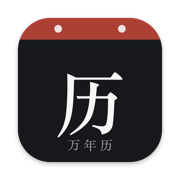
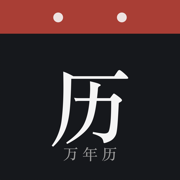
手机图标铺满方块，去掉透明边（避免主屏幕出现白边）

diff --git a/tools/icon-full.swift b/tools/icon-full.swift
@@ -1,0 +1,21 @@
+// 手机 / 网页用图标：铺满整个方块、不透明、无圆角（iOS 和安卓会自己裁圆角）
+// 用法：swift tools/icon-full.swift 输出.png
+import Cocoa
+let S: CGFloat = 1024
+let img = NSImage(size: NSSize(width: S, height: S))
+img.lockFocus()
+NSColor(srgbRed: 0.086, green: 0.094, blue: 0.11, alpha: 1).setFill(); NSRect(x: 0, y: 0, width: S, height: S).fill()
+// 顶部日历页眉 + 两个装订孔（与 Mac App 图标同一设计，按满版比例放大）
+NSColor(srgbRed: 0.72, green: 0.20, blue: 0.18, alpha: 1).setFill(); NSRect(x: 0, y: S - 190, width: S, height: 190).fill()
+NSColor(white: 0.96, alpha: 0.9).setFill()
+for x in [330.0, 694.0] { NSBezierPath(ovalIn: NSRect(x: x - 28, y: S - 125, width: 56, height: 56)).fill() }
+func draw(_ s: String, _ font: NSFont, _ color: NSColor, _ cy: CGFloat) {
+    let a: [NSAttributedString.Key: Any] = [.font: font, .foregroundColor: color]
+    let sz = (s as NSString).size(withAttributes: a)
+    (s as NSString).draw(at: NSPoint(x: (S - sz.width) / 2, y: cy - sz.height / 2), withAttributes: a)
+}
+draw("历", NSFont(name: "Songti SC Bold", size: 470) ?? .boldSystemFont(ofSize: 470), NSColor(white: 0.96, alpha: 1), 440)
+draw("万 年 历", NSFont(name: "Songti SC", size: 88) ?? .systemFont(ofSize: 88), NSColor(white: 0.62, alpha: 1), 150)
+img.unlockFocus()
+let rep = NSBitmapImageRep(data: img.tiffRepresentation!)!
+try! rep.representation(using: .png, properties: [:])!.write(to: URL(fileURLWithPath: CommandLine.arguments[1]))

diff --git a/sw.js b/sw.js
@@ -1,7 +1,7 @@
 /* 环球万年历 · 离线缓存
  * 联网时优先取最新文件（3 秒没响应就用缓存），并顺手更新缓存；断网时直接用缓存，日历完整可用。
  * 天气、中国放假公告等跨站请求不经过这里，断网时由页面提示“离线”。 */
-const CACHE='wnl-v1';
+const CACHE='wnl-v2';
 const CORE=['./','index.html','core.js','countries.js','holdata.js','ui.js','netdata.json','manifest.webmanifest','icon.png','icon-180.png','icon-192.png','icon-512.png'];
 self.addEventListener('install',e=>{e.waitUntil(caches.open(CACHE).then(c=>c.addAll(CORE)).then(()=>self.skipWaiting()))});
 self.addEventListener('activate',e=>{e.waitUntil(caches.keys().then(ks=>Promise.all(ks.filter(k=>k!==CACHE).map(k=>caches.delete(k)))).then(()=>self.clients.claim()))});
